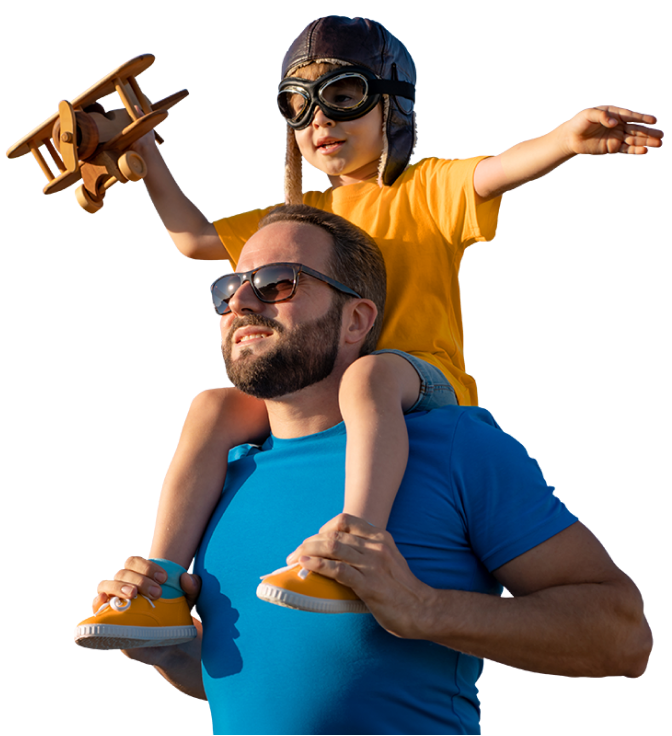
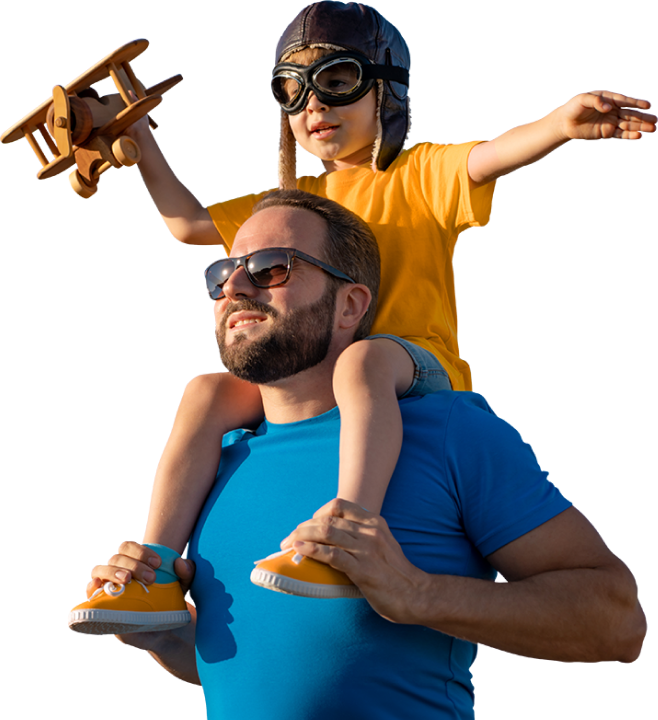
ajustes de responsividade na home

diff --git a/assets/style/_first-page.scss b/assets/style/_first-page.scss
@@ -1,43 +1,39 @@
+@import 'mixins';
+
 .first-page {
     display: flex;
     justify-content: center;
-    align-items: center;
+    align-items: flex-end;
+    justify-content: center;
     background-color: $primary-color;
     width: 100vw;
-    height: fit-content;
+    height: 100vh;
+    padding-top: 20vh;
     overflow: hidden;
-    border: solid red;
 
     .container-text-first{
-        border: solid purple;
-        width: 50%;
         display: flex;
         flex-direction: column;
         justify-content: center;
-        align-items: center;
+        align-items: flex-end;
+        width: 50%;
+        height: 100%;
         text-align: start;
 
         .text-wrapper-first{
-            border: solid violet;
 
-            .glass-vector{
-                border: solid blue;
-            }
             .title-first-page{
-                border: solid red;
                 color: $sixth-color;
                 font-size: clamp(1.75em, 3em + 6vw, 4em);
                 font-family: $secundary-font;
             }
 
             .pais-vector{
-                border: solid rosybrown;
                 width: max(30px, 90%)
 
             }
 
             .text-first-page{
-                border: solid yellow;
                 color: $sixth-color;
                 padding: 5px 0;
                 font-size: 1rem;
@@ -54,15 +50,14 @@
 
     .container-img-first {
         position: relative;
-        border: solid goldenrod;
         display: flex;
         flex-direction: column;
         justify-content: center;
-        align-items: center;
+        align-items: flex-end;
         width: 50%;
         height: 100%;
         .img-first {
-            position: absolute;
+
             display: flex;
             width: 100%;
             height: 100%;
@@ -74,19 +69,18 @@
         .img-first-item{
             display: flex;
             flex-direction: column;
-            position: absolute;
             width: 70%;
         }
         .item-1{
             z-index: 1;
+            @include clamp(width, 400px, 30vw, 50vw);
         }
     
         .item-2{
             position: absolute;
-            top: 20%;
-            transform: translateY(-50%);
+            top: 10%;
             z-index: 0;
-            width: 80%;
+            @include clamp(width, 400px, 30vw, 50vw);
         }
     }
 

diff --git a/main.css b/main.css
@@ -24,41 +24,32 @@ button, input {
 .first-page {
   display: flex;
   justify-content: center;
-  align-items: center;
+  align-items: flex-end;
+  justify-content: center;
   background-color: #448FF2;
   width: 100vw;
-  height: -moz-fit-content;
-  height: fit-content;
+  height: 100vh;
+  padding-top: 20vh;
   overflow: hidden;
-  border: solid red;
 }
 .first-page .container-text-first {
-  border: solid purple;
-  width: 50%;
   display: flex;
   flex-direction: column;
   justify-content: center;
-  align-items: center;
+  align-items: flex-end;
+  width: 50%;
+  height: 100%;
   text-align: start;
 }
-.first-page .container-text-first .text-wrapper-first {
-  border: solid violet;
-}
-.first-page .container-text-first .text-wrapper-first .glass-vector {
-  border: solid blue;
-}
 .first-page .container-text-first .text-wrapper-first .title-first-page {
-  border: solid red;
   color: #F2F2F2;
   font-size: clamp(1.75em, 3em + 6vw, 4em);
   font-family: "hatch-sans", sans-serif;
 }
 .first-page .container-text-first .text-wrapper-first .pais-vector {
-  border: solid rosybrown;
   width: max(30px, 90%);
 }
 .first-page .container-text-first .text-wrapper-first .text-first-page {
-  border: solid yellow;
   color: #F2F2F2;
   padding: 5px 0;
   font-size: 1rem;
@@ -72,16 +63,14 @@ button, input {
 }
 .first-page .container-img-first {
   position: relative;
-  border: solid goldenrod;
   display: flex;
   flex-direction: column;
   justify-content: center;
-  align-items: center;
+  align-items: flex-end;
   width: 50%;
   height: 100%;
 }
 .first-page .container-img-first .img-first {
-  position: absolute;
   display: flex;
   width: 100%;
   height: 100%;
@@ -92,18 +81,17 @@ button, input {
 .first-page .container-img-first .img-first-item {
   display: flex;
   flex-direction: column;
-  position: absolute;
   width: 70%;
 }
 .first-page .container-img-first .item-1 {
   z-index: 1;
+  width: clamp(400px, 30vw, 50vw);
 }
 .first-page .container-img-first .item-2 {
   position: absolute;
-  top: 20%;
-  transform: translateY(-50%);
+  top: 10%;
   z-index: 0;
-  width: 80%;
+  width: clamp(400px, 30vw, 50vw);
 }
 
 @media screen and (min-width: 312px) and (max-width: 500px) {
